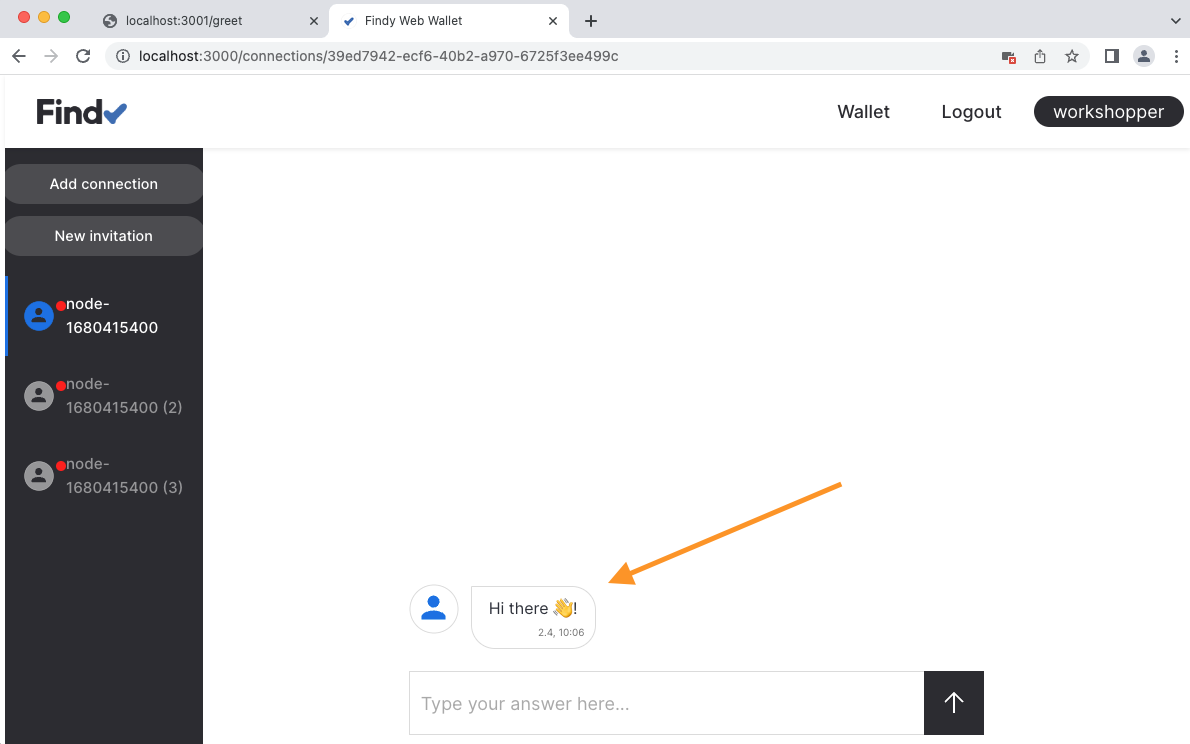
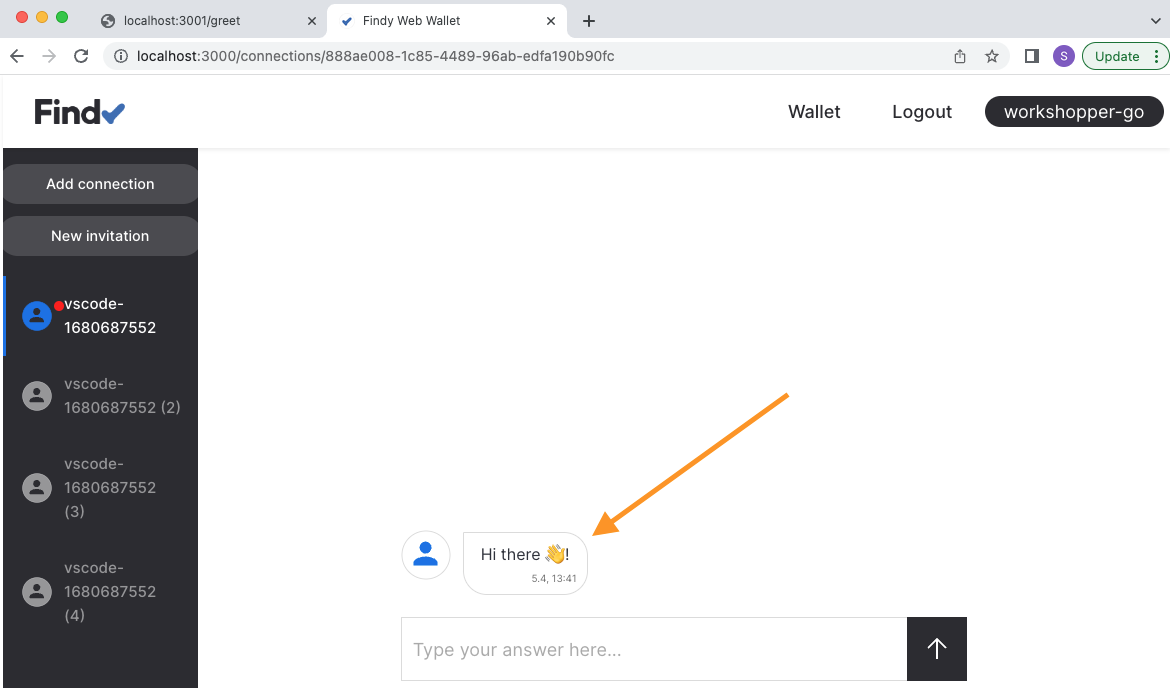
Add task2 screenshots.

diff --git a/track2.2/task2/README.md b/track2.2/task2/README.md
@@ -32,24 +32,24 @@ Modify handler `HandleNewConnection` to following:
 
 ```go
 func (g *Greeter) HandleNewConnection(
-  notification *agency.Notification,
-  status *agency.ProtocolStatus_DIDExchangeStatus,
-) (err error) {
-  defer err2.Handle(&err)
+ notification *agency.Notification,
+ status *agency.ProtocolStatus_DIDExchangeStatus,
+) {
+  defer err2.Catch(func(err error) {
+    log.Printf("Error handling new connection: %v", err)
+  })
 
   log.Printf("New connection %s with id %s", status.TheirLabel, notification.ConnectionID)
 
   // Greet each new connection with basic message
   pw := async.NewPairwise(g.conn, notification.ConnectionID)
   _ = try.To1(pw.BasicMessage(context.TODO(), "Hi there 👋!"))
-
-  return err
 }
 ```
 
 ## 2. Ensure the message is sent to the web wallet
 
-Refresh the `/greet`-page and create a new connection using the web wallet UI.
+Restart the server, refresh the `/greet`-page and create a new connection using the web wallet UI.
 Check that the greeting is received in the web wallet UI.
 
 ![Receive message in web wallet](./docs/receive-basic-message-web-wallet.png)
@@ -58,13 +58,13 @@ Check that the greeting is received in the web wallet UI.
 
 Open file `agent/listen.go`.
 
-Add new method `HandleBasicMesssageDone` to listener interface:
+Add new method `HandleBasicMesssageDone` to `Listener` interface:
 
 ```go
 type Listener interface {
-  HandleNewConnection(*agency.Notification, *agency.ProtocolStatus_DIDExchangeStatus) error
+  HandleNewConnection(*agency.Notification, *agency.ProtocolStatus_DIDExchangeStatus)
   // Send notification to listener when basic message protocol is completed
-  HandleBasicMesssageDone(*agency.Notification, *agency.ProtocolStatus_BasicMessageStatus) error
+  HandleBasicMesssageDone(*agency.Notification, *agency.ProtocolStatus_BasicMessageStatus)
 }
 ```
 
@@ -103,7 +103,8 @@ func (agencyClient *AgencyClient) Listen(listeners []Listener) {
 ```
 
 Open file `handlers/greeter.go`.
-Handle basic messages in Greeter module by printing them to log:
+Handle basic messages in Greeter module. Add new function `HandleBasicMesssageDone`
+and print messages to log:
 
 ```go
 func (g *Greeter) HandleBasicMesssageDone(
@@ -119,7 +120,7 @@ func (g *Greeter) HandleBasicMesssageDone(
 
 ## 4. Ensure the received message is printed to logs
 
-Send a reply from the web wallet UI:
+Restart server. Send a reply from the web wallet UI:
 
 ![Send message in web wallet](./docs/send-basic-message-web-wallet.png)
 

diff --git a/track2.2/task1/README.md b/track2.2/task1/README.md
@@ -100,20 +100,12 @@ First, store the agent API client reference returned when opening the agency con
 Add new field `agentClient` to `app`-struct:
 
 ```go
-import (
-  ...
-
-  "github.com/findy-network/agency-workshop/agent"
-
-  ...
-)
-
 type app struct {
   agencyClient *agent.AgencyClient
 }
 ```
 
-Modify `LoginAgent`-call to the following:
+Modify `main`-call to the following:
 
 ```go
 func main() {
@@ -133,7 +125,7 @@ func main() {
 
 ```
 
-Then, add implementation to the `/greet`-endpoint:
+Then, replace the implementation of the `/greet`-endpoint to the following:
 
 ```go
 // Show pairwise invitation. Once connection is established, send greeting.
@@ -143,7 +135,7 @@ func (a *app) greetHandler(response http.ResponseWriter, r *http.Request) {
     http.Error(response, err.Error(), http.StatusInternalServerError)
   })
   // Create HTML payload
-  _, html := try.To2(createInvitationPage(a.agentClient, "Greet"))
+  _, html := try.To2(createInvitationPage(a.agencyClient.AgentClient, "Greet"))
   // Render HTML
   try.To1(response.Write([]byte(html)))
 }
@@ -297,6 +289,7 @@ import (
   "log"
 
   "github.com/findy-network/agency-workshop/agent"
+  "github.com/findy-network/findy-common-go/agency/client"
   agency "github.com/findy-network/findy-common-go/grpc/agency/v1"
 )
 
@@ -349,7 +342,7 @@ func main() {
   // Login agent
   agencyClient := try.To1(agent.LoginAgent())
 
-// Create handlers
+  // Create handlers
   myApp := app{
     agencyClient: agencyClient,
     greeter:      handlers.NewGreeter(agencyClient.Conn),
@@ -368,7 +361,7 @@ func main() {
 
 ## 9. Check the name of the web wallet user
 
-Refresh the `/greet`-page and create a new connection using the web wallet UI.
+Restart the server, refresh the `/greet`-page and create a new connection using the web wallet UI.
 
 Check that the server logs print out the web wallet user name.
 
